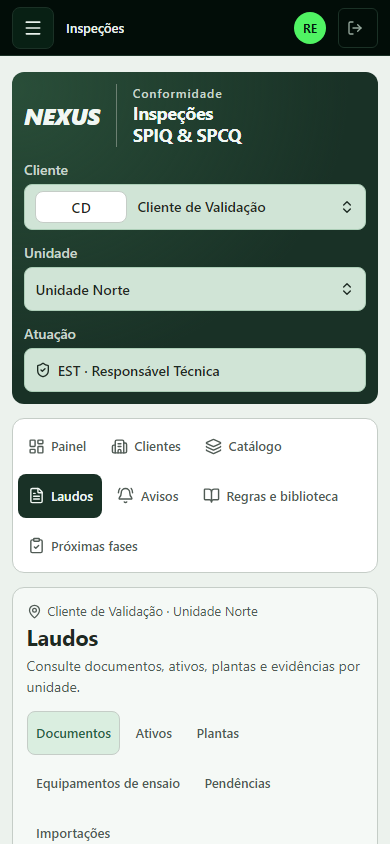
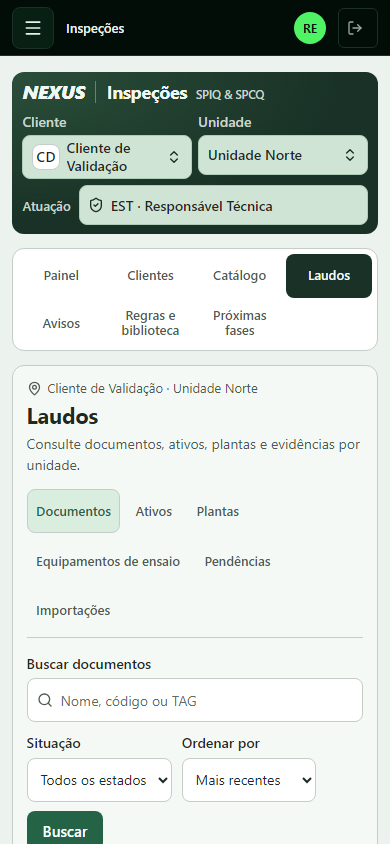
Compacta o cabeçalho responsivo de Inspeções

diff --git a/src/features/inspecoes/inspecoes.css b/src/features/inspecoes/inspecoes.css
@@ -3,13 +3,14 @@
   display: grid;
   align-content: start;
   gap: 0.85rem;
+  container: inspecoes / inline-size;
 }
 .insp-hero {
   display: grid;
-  grid-template-columns: minmax(13rem, auto) minmax(0, 1fr);
+  grid-template-columns: max-content minmax(0, 1fr);
   align-items: center;
-  gap: 1.4rem;
-  padding: 1.25rem;
+  gap: 1rem;
+  padding: 0.6rem 0.85rem;
   border-radius: var(--nr-radius);
   background:
     radial-gradient(ellipse at 0 5%, oklch(0.39 0.056 157), transparent 65%), var(--nr-frame);
@@ -18,37 +19,34 @@
 .insp-hero-title {
   display: flex;
   align-items: center;
-  gap: 1rem;
+  gap: 0.65rem;
   min-width: 0;
 }
 .insp-hero-title > div {
   border-inline-start: 1px solid oklch(0.58 0.032 155);
-  padding-inline-start: 1rem;
+  padding-inline-start: 0.65rem;
 }
 .insp-wordmark {
   color: inherit;
-  font-size: 1.45rem;
-}
-.insp-hero-title p {
-  color: var(--nr-frame-muted);
-  font-size: 0.75rem;
-  letter-spacing: 0.08em;
-  font-weight: 600;
+  font-size: 1.2rem;
 }
 .insp-hero-title h1 {
   margin: 0;
-  font-size: clamp(1.125rem, 1.75vw, 1.375rem);
+  font-size: 1.125rem;
   font-weight: 700;
   line-height: 1.24;
 }
 .insp-hero-title h1 span {
   display: block;
   white-space: nowrap;
+  color: var(--nr-frame-muted);
+  font-size: 0.75rem;
+  font-weight: 600;
 }
 .insp-selectors {
   display: grid;
-  grid-template-columns: minmax(0, 1.05fr) minmax(0, 1fr) minmax(0, 1.12fr);
-  gap: 0.7rem;
+  grid-template-columns: minmax(0, 1fr) minmax(0, 1fr) minmax(0, 1.05fr);
+  gap: 0.55rem;
 }
 .insp-context-field,
 .insp-field {
@@ -59,7 +57,10 @@
   font-size: 0.8125rem;
   font-weight: 600;
 }
-.insp-context-field label {
+.insp-context-field {
+  gap: 0.15rem;
+}
+.insp-context-field :is(label, .insp-context-label) {
   color: var(--nr-frame-muted);
 }
 .insp-context-field :is(.nr-client-combobox, select, .insp-assignment-value) {
@@ -67,20 +68,39 @@
   align-items: center;
   gap: 0.4rem;
   min-width: 0;
-  min-height: 2.75rem;
+  min-height: 2.5rem;
   width: 100%;
   border: 1px solid var(--nr-context-marker);
   border-radius: var(--nr-radius-control);
-  padding: 0.375rem 0.65rem;
+  padding: 0.2rem 0.55rem;
   background: var(--nr-context-control);
   color: var(--nr-text);
   font-size: 0.875rem;
   font-weight: 500;
+  line-height: 1.25;
 }
-.insp-context-field .nr-client-combobox > span {
+.insp-context-field :is(.nr-client-combobox, .insp-assignment-value) > span {
+  min-width: 0;
+  overflow-wrap: anywhere;
+}
+.insp-context-field
+  :is(.nr-brand-name, .nr-client-combobox > span:not(.nr-brand), .insp-assignment-value > span) {
+  display: -webkit-box;
   overflow: hidden;
-  text-overflow: ellipsis;
-  white-space: nowrap;
+  -webkit-box-orient: vertical;
+  -webkit-line-clamp: 2;
+}
+.insp-context-field .insp-assignment-value > svg {
+  flex: none;
+}
+.insp-hero .nr-brand-compact {
+  gap: 0.4rem;
+}
+.insp-hero .nr-brand-compact .nr-brand-media {
+  flex-basis: 2.5rem;
+  width: 2.5rem;
+  height: 1.65rem;
+  padding: 0.15rem;
 }
 .insp-context-field :is(.nr-client-combobox, select):not(:disabled):hover {
   background: var(--nr-context-control-hover);
@@ -760,23 +780,52 @@
   outline-color: white;
 }
 
-@media (max-width: 1100px) {
+@container inspecoes (max-width: 740px) {
   .insp-hero {
-    grid-template-columns: 1fr;
-    gap: 0.75rem;
+    grid-template-columns: minmax(0, 1fr);
+    gap: 0.5rem;
+  }
+  .insp-hero-title h1 span {
+    display: inline;
+    margin-inline-start: 0.25rem;
   }
 }
-@media (max-width: 670px) {
+@container inspecoes (max-width: 520px) {
   .insp-hero {
-    padding: 0.75rem;
+    padding: 0.55rem 0.65rem;
   }
   .insp-selectors {
-    grid-template-columns: minmax(0, 1fr) minmax(0, 1fr);
+    grid-template-columns: repeat(2, minmax(0, 1fr));
+    gap: 0.38rem;
   }
   .insp-assignment {
     grid-column: 1 / -1;
+    grid-template-columns: max-content minmax(0, 1fr);
+    align-items: center;
+    gap: 0.5rem;
   }
-  .insp-nav a,
+  .insp-hero .nr-brand-compact .nr-brand-media {
+    flex-basis: 1.75rem;
+    width: 1.75rem;
+  }
+  .insp-nav {
+    display: grid;
+    grid-template-columns: repeat(4, minmax(0, 1fr));
+    align-items: stretch;
+    gap: 0.2rem;
+  }
+  .insp-nav a {
+    justify-content: center;
+    padding: 0.25rem 0.2rem;
+    font-size: 0.8125rem;
+    line-height: 1.15;
+    text-align: center;
+  }
+  .insp-nav a svg {
+    display: none;
+  }
+}
+@media (max-width: 670px) {
   .insp-subnav :is(a, button) {
     padding-inline: 0.53rem;
     font-size: 0.8125rem;
@@ -794,9 +843,6 @@
   }
 }
 @media (max-width: 390px) {
-  .insp-selectors {
-    grid-template-columns: 1fr;
-  }
   .insp-photo {
     grid-template-columns: 1fr;
   }

diff --git a/src/features/inspecoes/InspecoesWorkspace.tsx b/src/features/inspecoes/InspecoesWorkspace.tsx
@@ -275,14 +275,13 @@ function WorkspaceAuthorized({
         <div className="insp-hero-title">
           <NexusLogo className="insp-wordmark" />
           <div>
-            <p>Conformidade</p>
             <h1>
               Inspeções <span>SPIQ &amp; SPCQ</span>
             </h1>
           </div>
         </div>
         <div className="insp-selectors">
-          <div className="insp-context-field">
+          <div className="insp-context-field" title={selectedClient?.nome}>
             <label htmlFor="insp-cliente">Cliente</label>
             <NrClientSelect
               id="insp-cliente"
@@ -301,11 +300,16 @@ function WorkspaceAuthorized({
             />
           </div>
           <div className="insp-context-field insp-assignment">
-            <label htmlFor="insp-atribuicao">Atuação</label>
+            {assignments.length > 1 ? (
+              <label htmlFor="insp-atribuicao">Atuação</label>
+            ) : (
+              <span className="insp-context-label">Atuação</span>
+            )}
             {assignments.length > 1 ? (
               <select
                 id="insp-atribuicao"
                 value={active?.id ?? ""}
+                title={active ? labelAtribuicao(active, units) : undefined}
                 onChange={(e) => {
                   const atribuicao = e.target.value;
                   atualizar((prev) => ({ ...prev, atribuicao, trilha: undefined }));
@@ -318,9 +322,15 @@ function WorkspaceAuthorized({
                 ))}
               </select>
             ) : (
-              <span className="insp-assignment-value" id="insp-atribuicao">
+              <span
+                className="insp-assignment-value"
+                id="insp-atribuicao"
+                title={active ? labelAtribuicao(active, units) : undefined}
+              >
                 <ShieldCheck size={16} aria-hidden="true" />
-                {active ? labelAtribuicao(active, units) : "Sem atribuição neste contexto"}
+                <span>
+                  {active ? labelAtribuicao(active, units) : "Sem atribuição neste contexto"}
+                </span>
               </span>
             )}
           </div>
@@ -490,6 +500,7 @@ function UnitSelect({
           type="button"
           role="combobox"
           aria-label={`Unidade: ${label}`}
+          title={label}
           aria-controls={list}
           aria-expanded={open}
           aria-haspopup="listbox"

diff --git a/tests/ui/inspecoes-server.ts b/tests/ui/inspecoes-server.ts
@@ -195,13 +195,21 @@ let levantamento: InspecoesLevantamento = {
 };
 
 export async function inspecoesContexto() {
+  const longContext = new URLSearchParams(location.search).get("scenario") === "insp-long-context";
+  const clientName = longContext
+    ? "Indústria de Sistemas de Proteção e Manutenção"
+    : "Cliente de Validação";
   return {
     atribuicoes: [
       {
         id: id(6),
         perfil: tst ? "TST" : "EST",
         pessoa_id: user,
-        nome: tst ? "Técnico de Campo" : "Responsável Técnica",
+        nome: tst
+          ? "Técnico de Campo"
+          : longContext
+            ? "Responsável Técnica de Inspeções e Proteção contra Quedas"
+            : "Responsável Técnica",
         cliente_id: null,
         unidade_id: null,
         ensaios: false,
@@ -213,14 +221,16 @@ export async function inspecoesContexto() {
       {
         cliente_id: cliente,
         unidade_id: unidade,
-        cliente_nome: "Cliente de Validação",
-        unidade_nome: "Unidade Norte",
+        cliente_nome: clientName,
+        unidade_nome: longContext
+          ? "Unidade Operacional Santa Rosa — Linha de Vida"
+          : "Unidade Norte",
         segmento: "IN",
       },
       {
         cliente_id: cliente,
         unidade_id: id(4),
-        cliente_nome: "Cliente de Validação",
+        cliente_nome: clientName,
         unidade_nome: "Unidade Sul",
         segmento: "IN",
       },

diff --git a/docs/inspecoes/entrega.md b/docs/inspecoes/entrega.md
@@ -27,7 +27,7 @@ Os 17 originais ausentes estão identificados por documento no [relatório de re
 
 ## Validação e limitações
 
-- A [validação visual](evidencias/inspecoes/validacao.json) usou os componentes reais da Nexus, dados de teste e transporte isolado em Chromium. Foram verificadas larguras de 1280, 1440, 1920, 390 e 360 px, foco e retorno pelo teclado, miniaturas, ampliação, navegação na planta, devolução EST e submissão TST. O mobile foi emulado.
+- A [validação visual](evidencias/inspecoes/validacao.json) usou os componentes reais da Nexus, dados de teste e transporte isolado em Chromium. Foram verificadas larguras de 1280, 1440, 1920, 390 e 360 px, foco e retorno pelo teclado, miniaturas, ampliação, navegação na planta, devolução EST e submissão TST. O cabeçalho mediu cerca de 83 px no desktop e 162 px no celular para o contexto de teste. Cliente e Unidade ficaram lado a lado nas larguras móveis, com controles de pelo menos 40 px e sem rolagem horizontal. O mobile foi emulado.
 - O fluxo com personas, o isolamento por unidade, a imutabilidade, o reprocessamento e os limites de calendário da R64 foram exercitados em PostgreSQL local. No banco conectado, a verificação cobriu o ledger, as contagens, RLS ativa, o Storage privado e a negação anônima.
 - A interface segue em PR revisável. A confirmação de jornada autenticada no ambiente conectado depende das designações reais. A integração apresenta biblioteca histórica e homologação versionada de protocolos. Revisões gerais de todos os textos e parâmetros, gestão completa de evidências de consentimento e integração da fila de geração PAC/PAL permanecem abertas.
 
@@ -35,6 +35,6 @@ Os 17 originais ausentes estão identificados por documento no [relatório de re
 
 - `npm run typecheck`, build de produção e ESLint dos arquivos alterados passaram localmente.
 - `npm run test:nr` passou 195 testes Vitest e 23 testes Node, com sete pulos previstos pelo ambiente. PET passou 121 testes e a suíte operacional passou 55 testes Vitest e 12 testes Node.
-- Os testes de importação passaram 3/3. O PostgreSQL local confirmou instalação limpa, aplicação atômica pelo envelope do conector, 59 verificações de fluxo e os cenários de R64, reimportação e continuidade.
+- Os testes de importação passaram 3/3. O PostgreSQL local confirmou instalação limpa, aplicação atômica pelo envelope do conector, 59 verificações de fluxo e os cenários de R64, reimportação e continuidade. Os 23 cenários focados de banco para NR33, NR35 e PET passaram. Os testes locais de formato e integridade de vídeo passaram 3/3.
 - A execução completa do banco parou na validação de janela de qualificação em `tests/db/agenda-foundation.sql:97`. A mesma falha foi reproduzida no checkout de referência com apenas as 90 migrações anteriores.
 - No banco conectado, reprocessar os 18 blocos preservou o total de registros e os 835 ativos. Uma simulação do papel autenticado com identidade existente, ainda sem atribuição técnica, retornou zero registros e arquivos do módulo.
